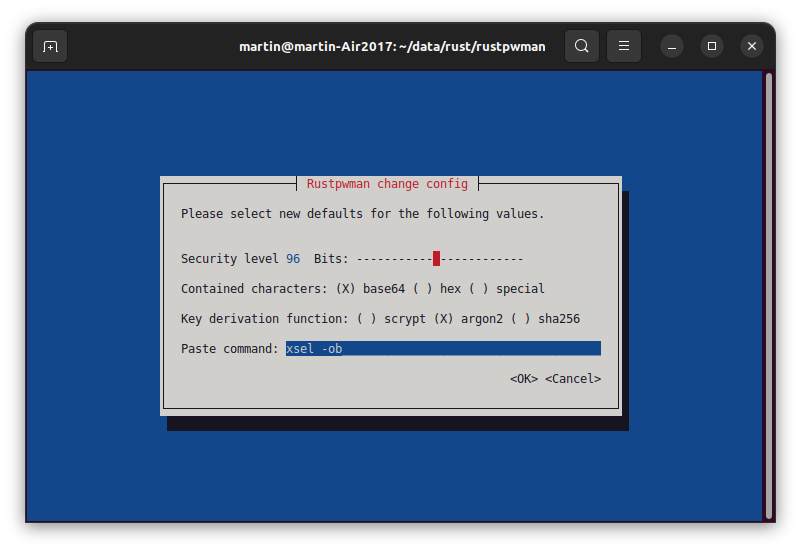
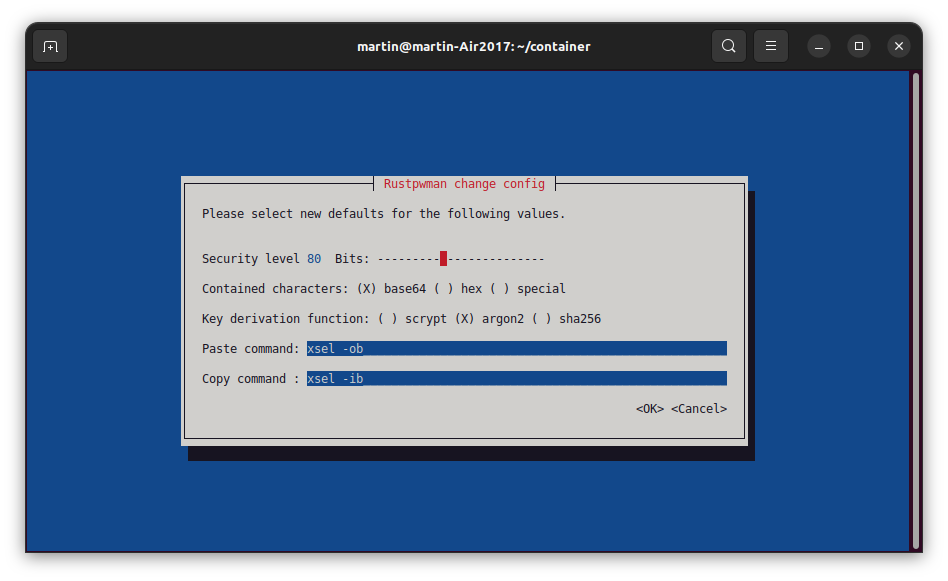
Improve documentation and repair tests

Changed region(s): [[0.1873, 0.2777, 0.8115, 0.8022], [0.0, 0.0309, 0.9988, 0.9564]]

diff --git a/src/tests.rs b/src/tests.rs
@@ -312,7 +312,7 @@ fn test_save_load_config() {
     const TEST_CONF_NAME: &str = "config_test_delete_me.toml";
 
     current_dir.push(TEST_CONF_NAME);
-    let c = tomlconfig::RustPwManSerialize::new(15, "egal1", "egal2", "egal42");
+    let c = tomlconfig::RustPwManSerialize::new(15, "egal1", "egal2", "egal42", "egal43");
 
     match tomlconfig::save(&current_dir, c) {
         Some(e) => panic!("{:?}", e),

diff --git a/README.md b/README.md
@@ -140,7 +140,7 @@ a look at the section [A note about using the clipboard](#a-note-about-using-the
 
 Tip: You can pipe the output of `rustpwman` to a program that places the data it reads via stdin in the clipboard. This works even under Windows which offers the `clip` 
 command for this purpose. Under Linux `xsel` can be used and MacOS provides the `pbcopy` command. When you use `clip` under Windows you have to be aware that non ASCII
-characters may not be displayed correctly when pasting the data copied by `clip`.
+characters may not be displayed correctly when pasting the data copied by `clip.exe`. Alternatively you can use the `Copy to clipboard` menu entry for this purpose.
 
 ### Quit
 
@@ -170,6 +170,13 @@ Additionally the user is able to select the set of characters which may appear i
 
 According to the Rust documentation the random number generator underlying the whole process is a *thread-local CSPRNG with periodic seeding from OsRng. Because this is local, it is typically much faster than OsRng. It should be secure, though the paranoid may prefer OsRng*.
 
+### Copy to clipboard
+
+This menu entry can be used to copy the value of the currently selected password entry to the clipboard. For the reasons described [below](#a-note-about-using-the-clipboard) this 
+feature requires an additional tool which accepts its input via stdin and uses that data to set the clipboard contents. The path to this tool can be confgured by calling
+`rustpwman cfg`. When you use `clip.exe` under Windows for this purpose you have to be aware that non ASCII characters may not be displayed correctly after pasting the clipboard
+data. The reason for this is that `clip.exe` expects a character encoding different from UTF-8 which is the default for Rust.
+
 ### Add entry
 
 Select this menu item to create a new password entry and edit its contents.
@@ -195,9 +202,12 @@ This allows to load the contents of a (text-)file into an entry. The current con
 It has to be noted that copying and pasting text in its most basic form is not possible in a terminal window while the cursive application is running. This in turn is probably 
 an unfixable problem as cursive by definition controls the cursor in the terminal window, which most likely precludes the OS from "doing its thing". 
 
-`rustpwman` works around this problem in two ways. At first pasting from the clipboard is emulated by spawning a new process in which a command is executed that writes the clipboard contents to stdout. `rustpwman` can then read the output of that process and write it into the TUI. `rustpwman` expects that the data to be read from stdout is UTF-8 encoded.
+`rustpwman` works around this problem in three ways. At first pasting from the clipboard is emulated by spawning a new process in which a command is executed that writes the clipboard contents to stdout. `rustpwman` can then read the output of that process and write it into the TUI. `rustpwman` expects that the data to be read from stdout is UTF-8 encoded.
 
 Secondly copying to the clipboard is possible as soon as `rustpwman` has stopped. When selecting `Quit and print` from the main menu `rustpwman` is stopped and the contents of the currently selected entry is printed to the terminal window. The necessary information can now be copied from the terminal into the clipboard and pasted where needed.
+
+The third implemented option is the possibility to copy an entry as a whole to the clipboard by spawning a process that runs a program which is able to transfer the data it
+receives via stdin to the clipboard. As Rust uses the UTF-8 character encoding this works best when the tool used for this purpose also expects its data in UTF-8.
 
 As an additional workaround there is a possibility to load data from a file into an existing entry using the `Load entry` menu entry.
 
@@ -217,17 +227,21 @@ seclevel = 18
 pbkdf = "argon2"
 pwgen = "special"
 clip_cmd = "xsel -ob"
+copy_cmd = "xsel -ib"
 ```
 
 - `seclevel` has to be an integer between 0 and 23. The security level in bits is calculated as (`seclevel` + 1) * 8. 
 - `pbkdf` is a string that can assume the values `scrypt`, `argon2`, `sha256`
 - `pwgen` is one of the strings `base64`, `hex` or `special`
 - `clip_cmd` is a string which specifies a command that can be used to write the current contents of the clipboard to stdout. 
+- `copy_cmd` is a string which specifies a command that can be used to transfer the data sent to it via stdin to the clipboard. 
 
 The default value for `clip_cmd` is `xsel -ob`, which works on Linux to retrieve the contents of the clipboard, which is filled via `CTRL+C` or after activating the `Copy` 
 item from the context menu. If you want to use the primary selection, where text only has to be selected and not explicitly copied then use `xsel -op`. Remark: I had 
 to manually install `xsel` on Ubuntu 22.04. Under MacOS `pbpaste -Prefer txt` can be used. For usage under Windows `rustpwman` provides the ("slightly" overengineered ;-))
 tool `paste_utf8.exe` which can be built in a Visual Studio developer prompt using the `build_paste_utf8.bat` batch file.
+
+The value `copy_cmd` uses `xsel -ib` as a default. This should work under Linux. Use `pbcopy` under MacOS and `clip.exe` under Windows.
 
 The config file is stored in the users' home directory in a file named `.rustpwman` and you can alternatively edit it by hand instead of calling `rustpwman cfg`. 
 
